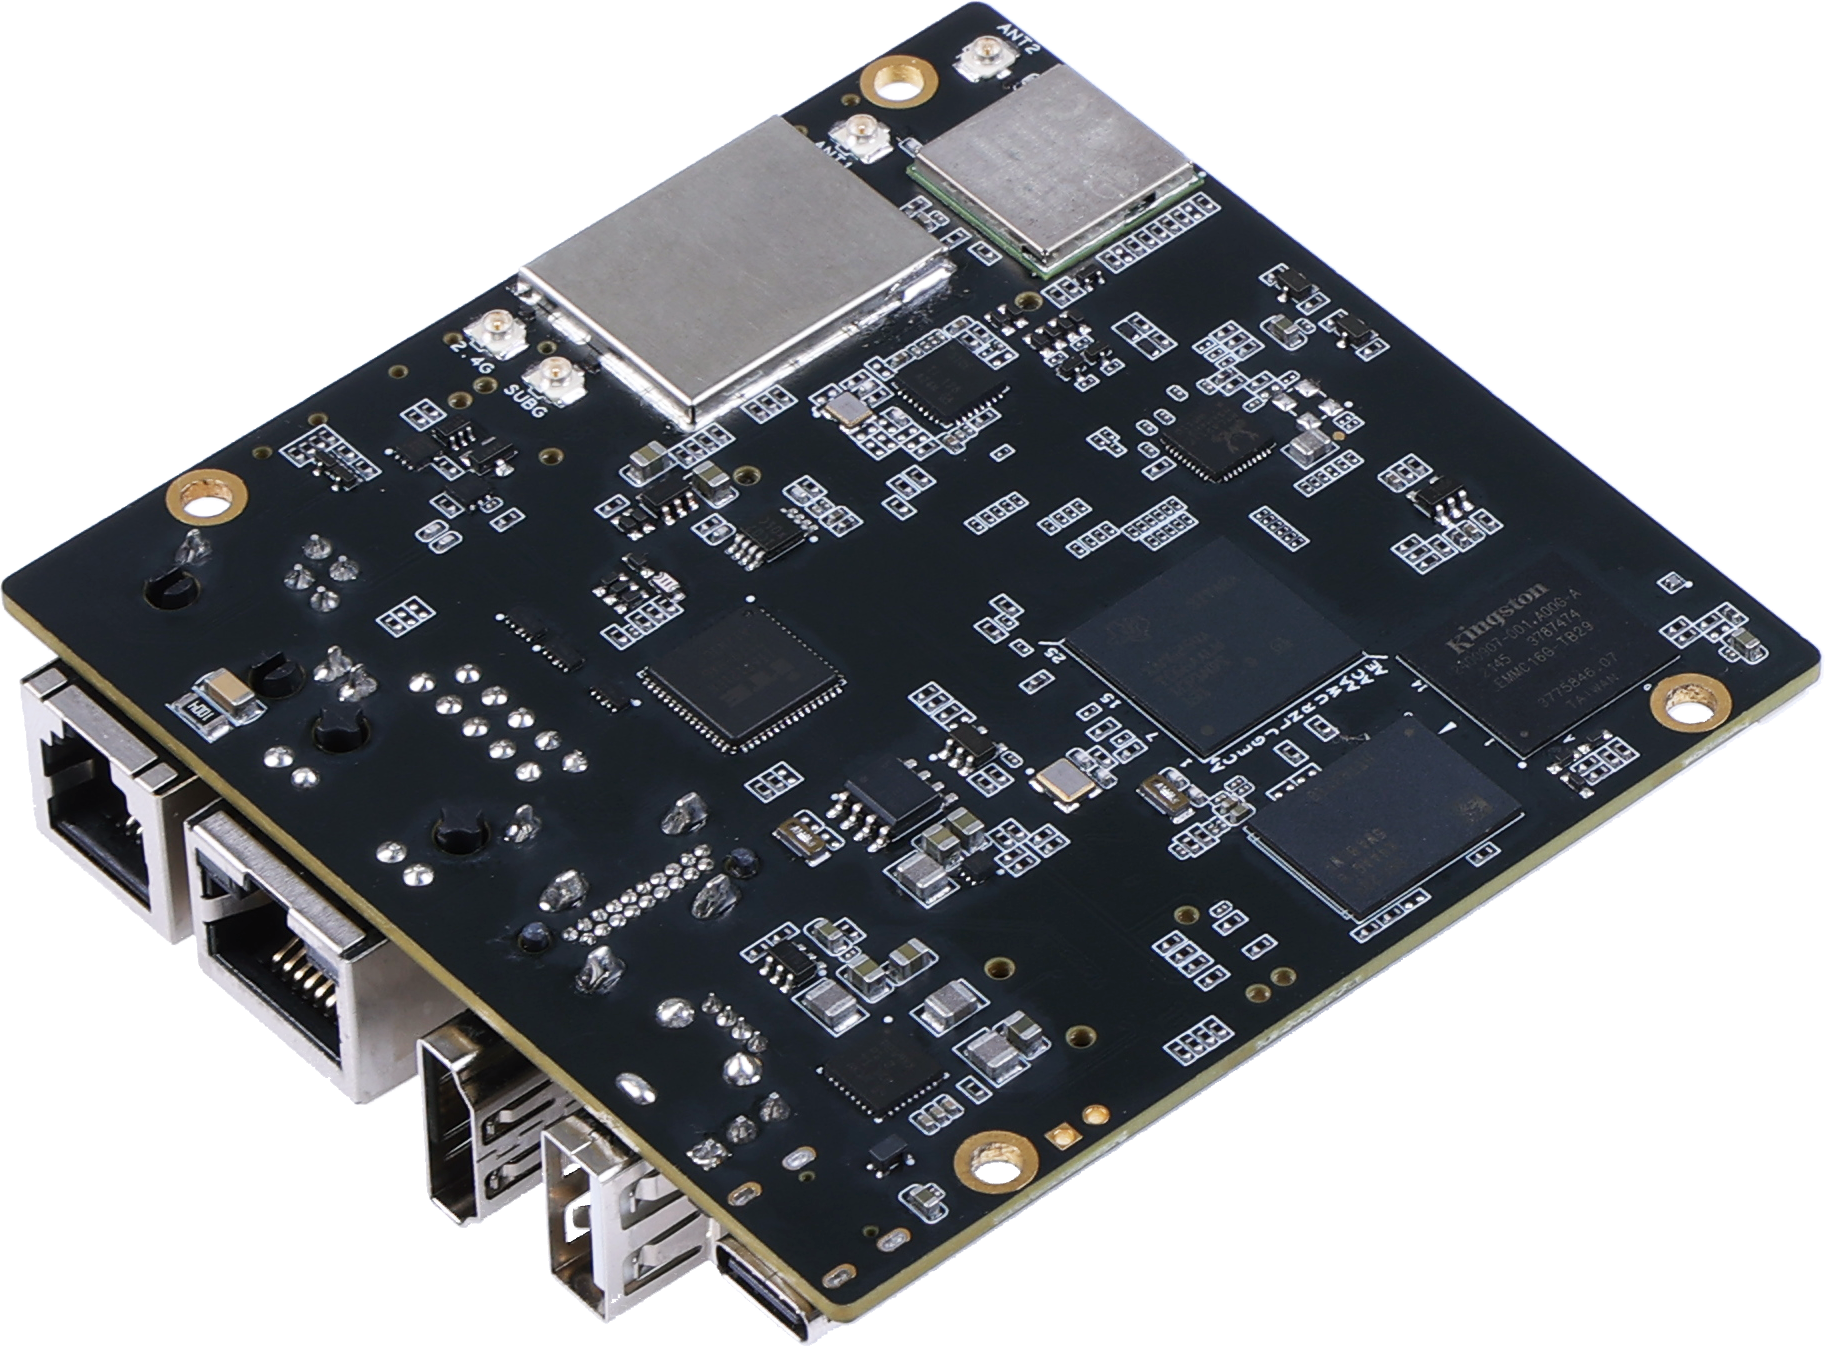
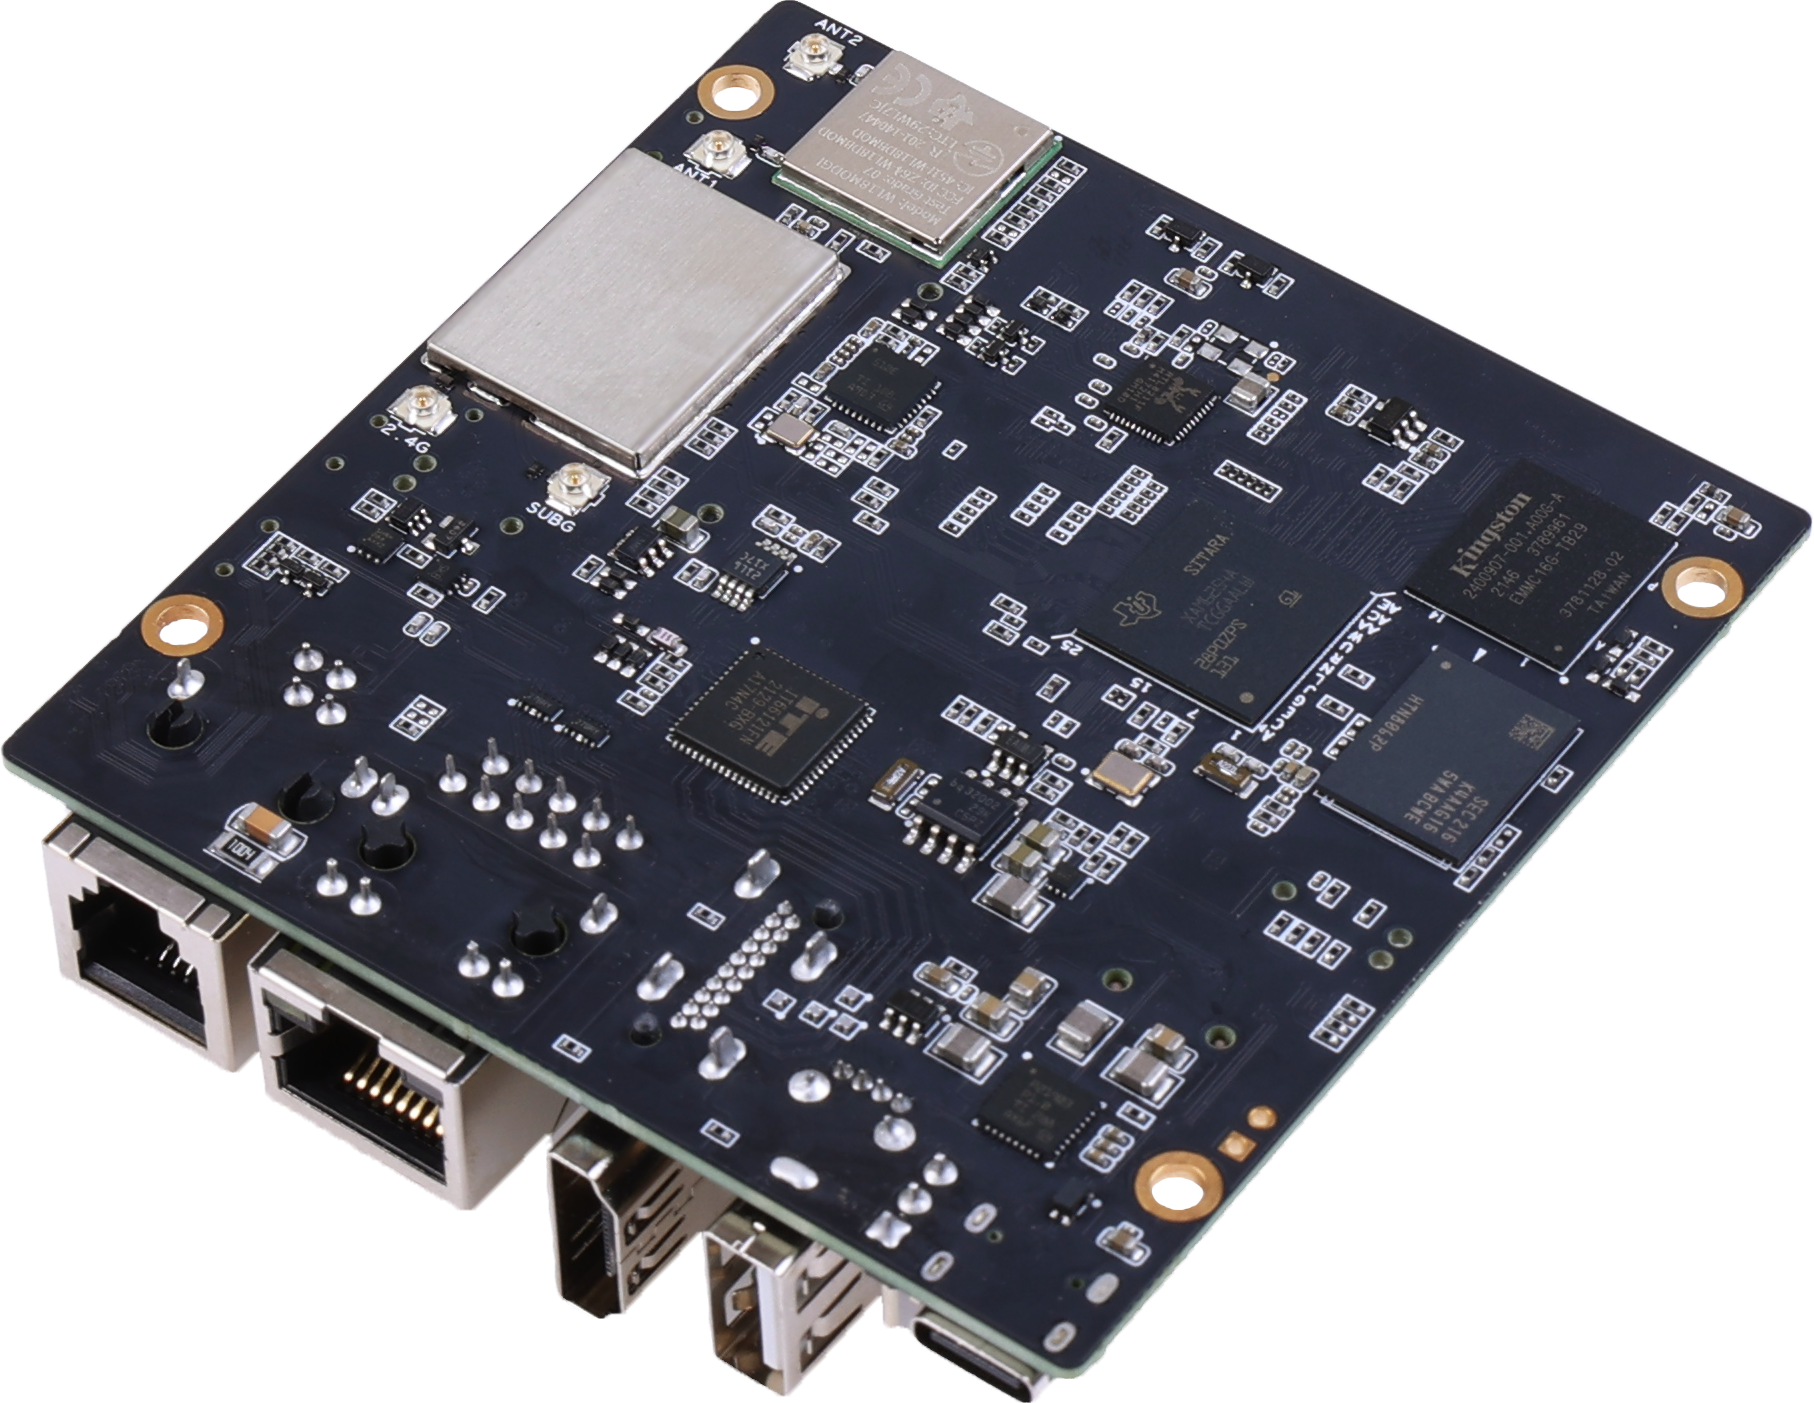
update images and minor edit to getting started

diff --git a/intro/support/getting-started.rst b/intro/support/getting-started.rst
@@ -63,12 +63,11 @@ and apply power, either by the USB cable or 5V adapter.
 If using an original BeagleBone or PocketBeagle, you are done.
 
 .. note::
-    If using BeagleBone Black, BeagleBone Blue, BeagleBone AI, BeagleBone AI-64 or other board with on-board eMMC
+    If using BeagleBone Black, BeagleBone Blue, BeagleBone AI, BeagleBone AI-64, BeaglePlay or other board with on-board eMMC
     flash and you desire to write the image to your on-board eMMC, you'll need to follow the
     instructions at http://elinux.org/Beagleboard:BeagleBoneBlack_Debian#Flashing_eMMC.
-    When the flashing is complete, all 4 USRx LEDs will be steady on or off. The latest Debian
-    flasher images automatically power down the board upon completion. This can take up to 45 minutes.
-    Power-down your board, remove the SD card and apply power again to finish.
+    When the flashing is complete, all 4 USRx LEDs will be steady off and possibly
+    power down the board upon completion. This can take up to 45 minutes.  Power-down your board, remove the SD card and apply power again to finish.
 
 Start your Beagle
 *****************
@@ -101,7 +100,7 @@ blinking in their default configurations. Consult your :ref:`boards` documentati
 - USR1 is typically configured at boot to light during SD (microSD) card accesses.
 - USR2 is typically configured at boot to light during CPU activity.
 - USR3 is typically configured at boot to light during eMMC accesses.
-- USR4/WIFI is typically configured at boot to light with WiFi (client) network association (BeagleBone Blue and BeagleBone AI only).
+- USR4/WIFI is typically configured at boot to light with WiFi (client) network association (Only on boards with built-in WiFi or M.2).
 
 Enable a network connection
 ============================
